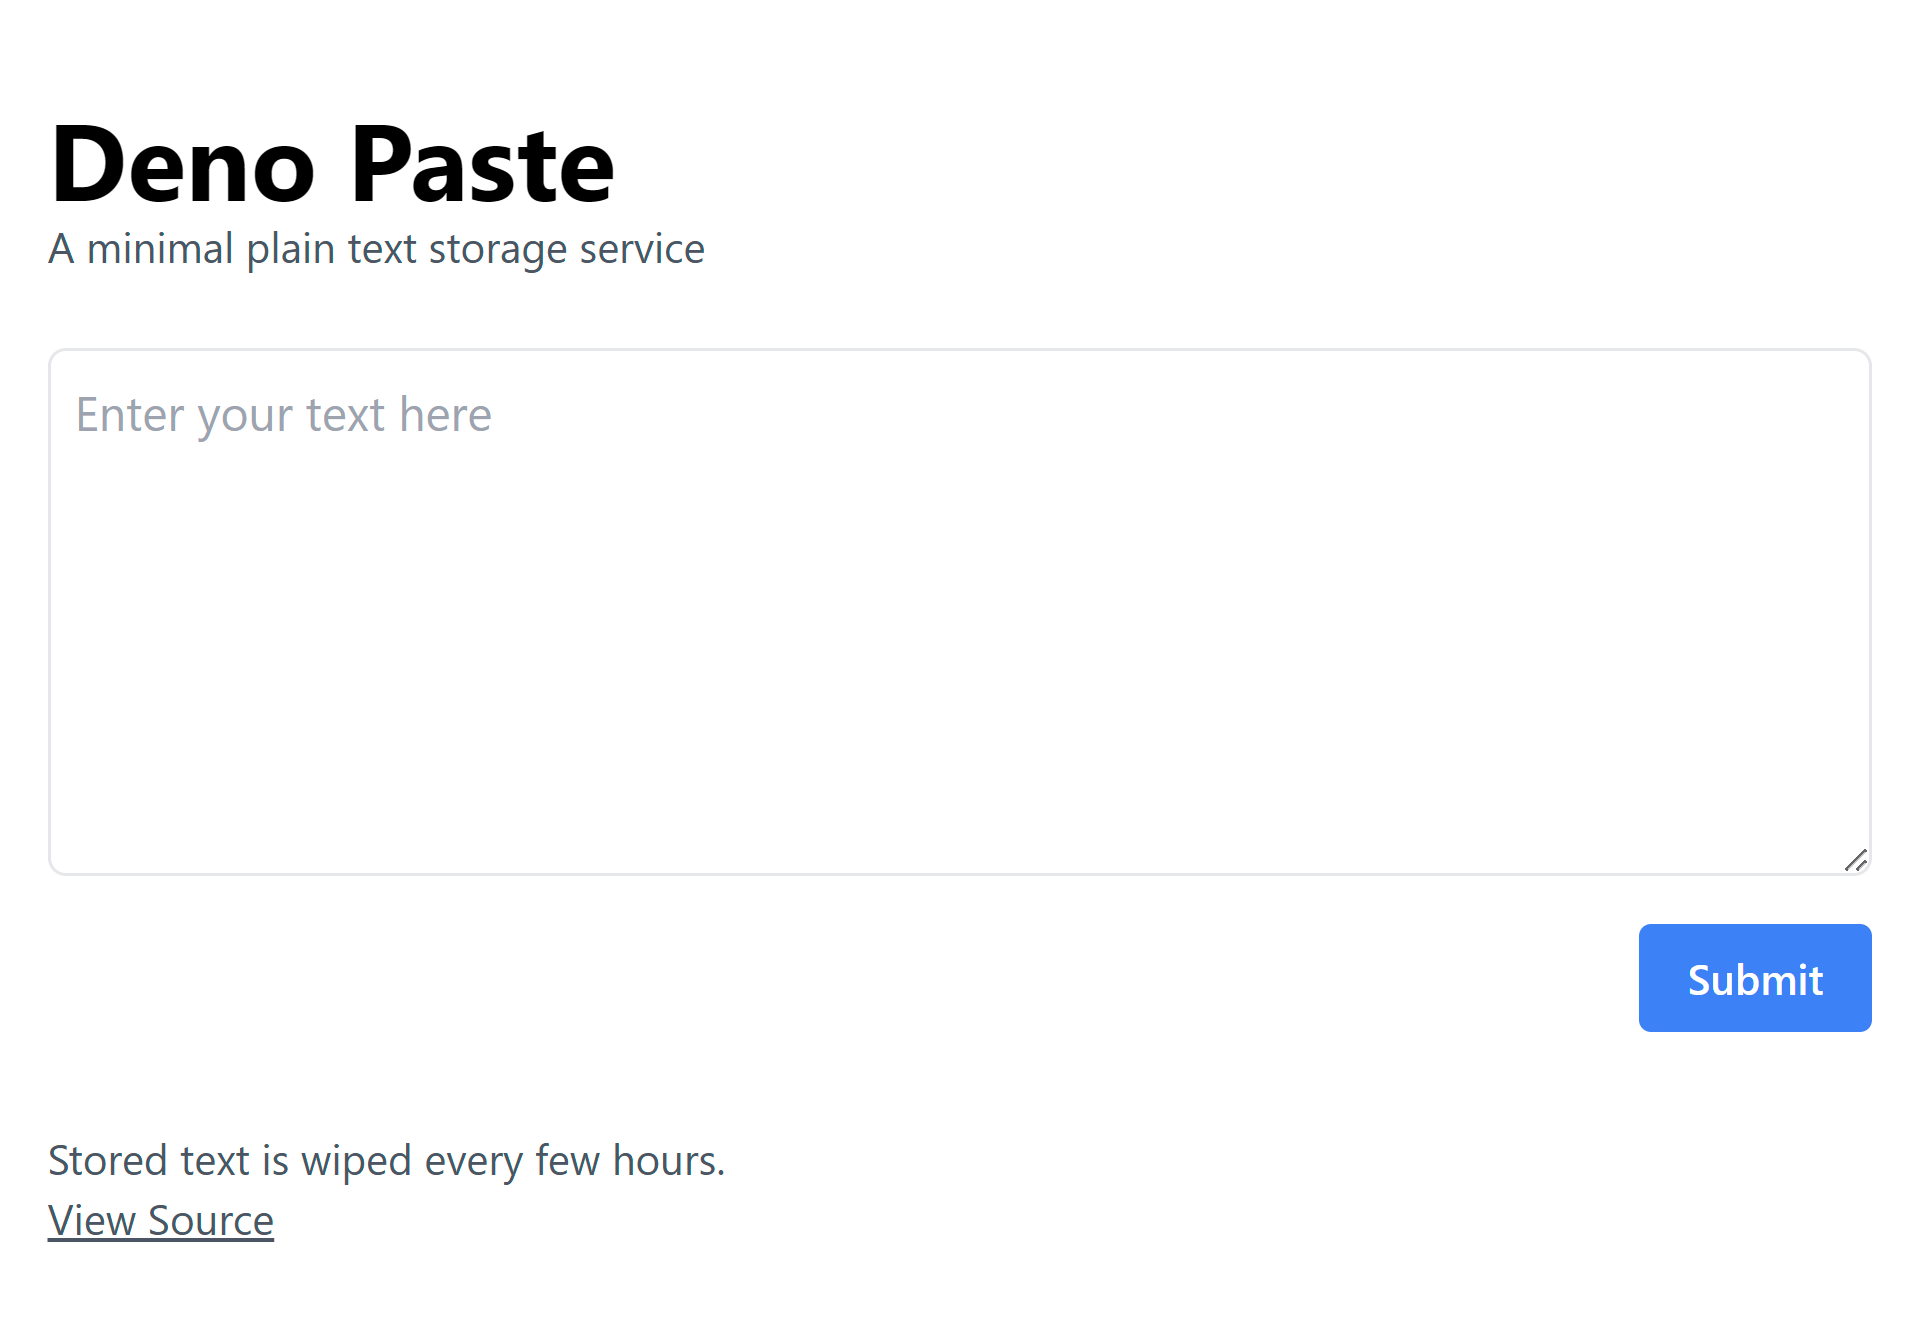
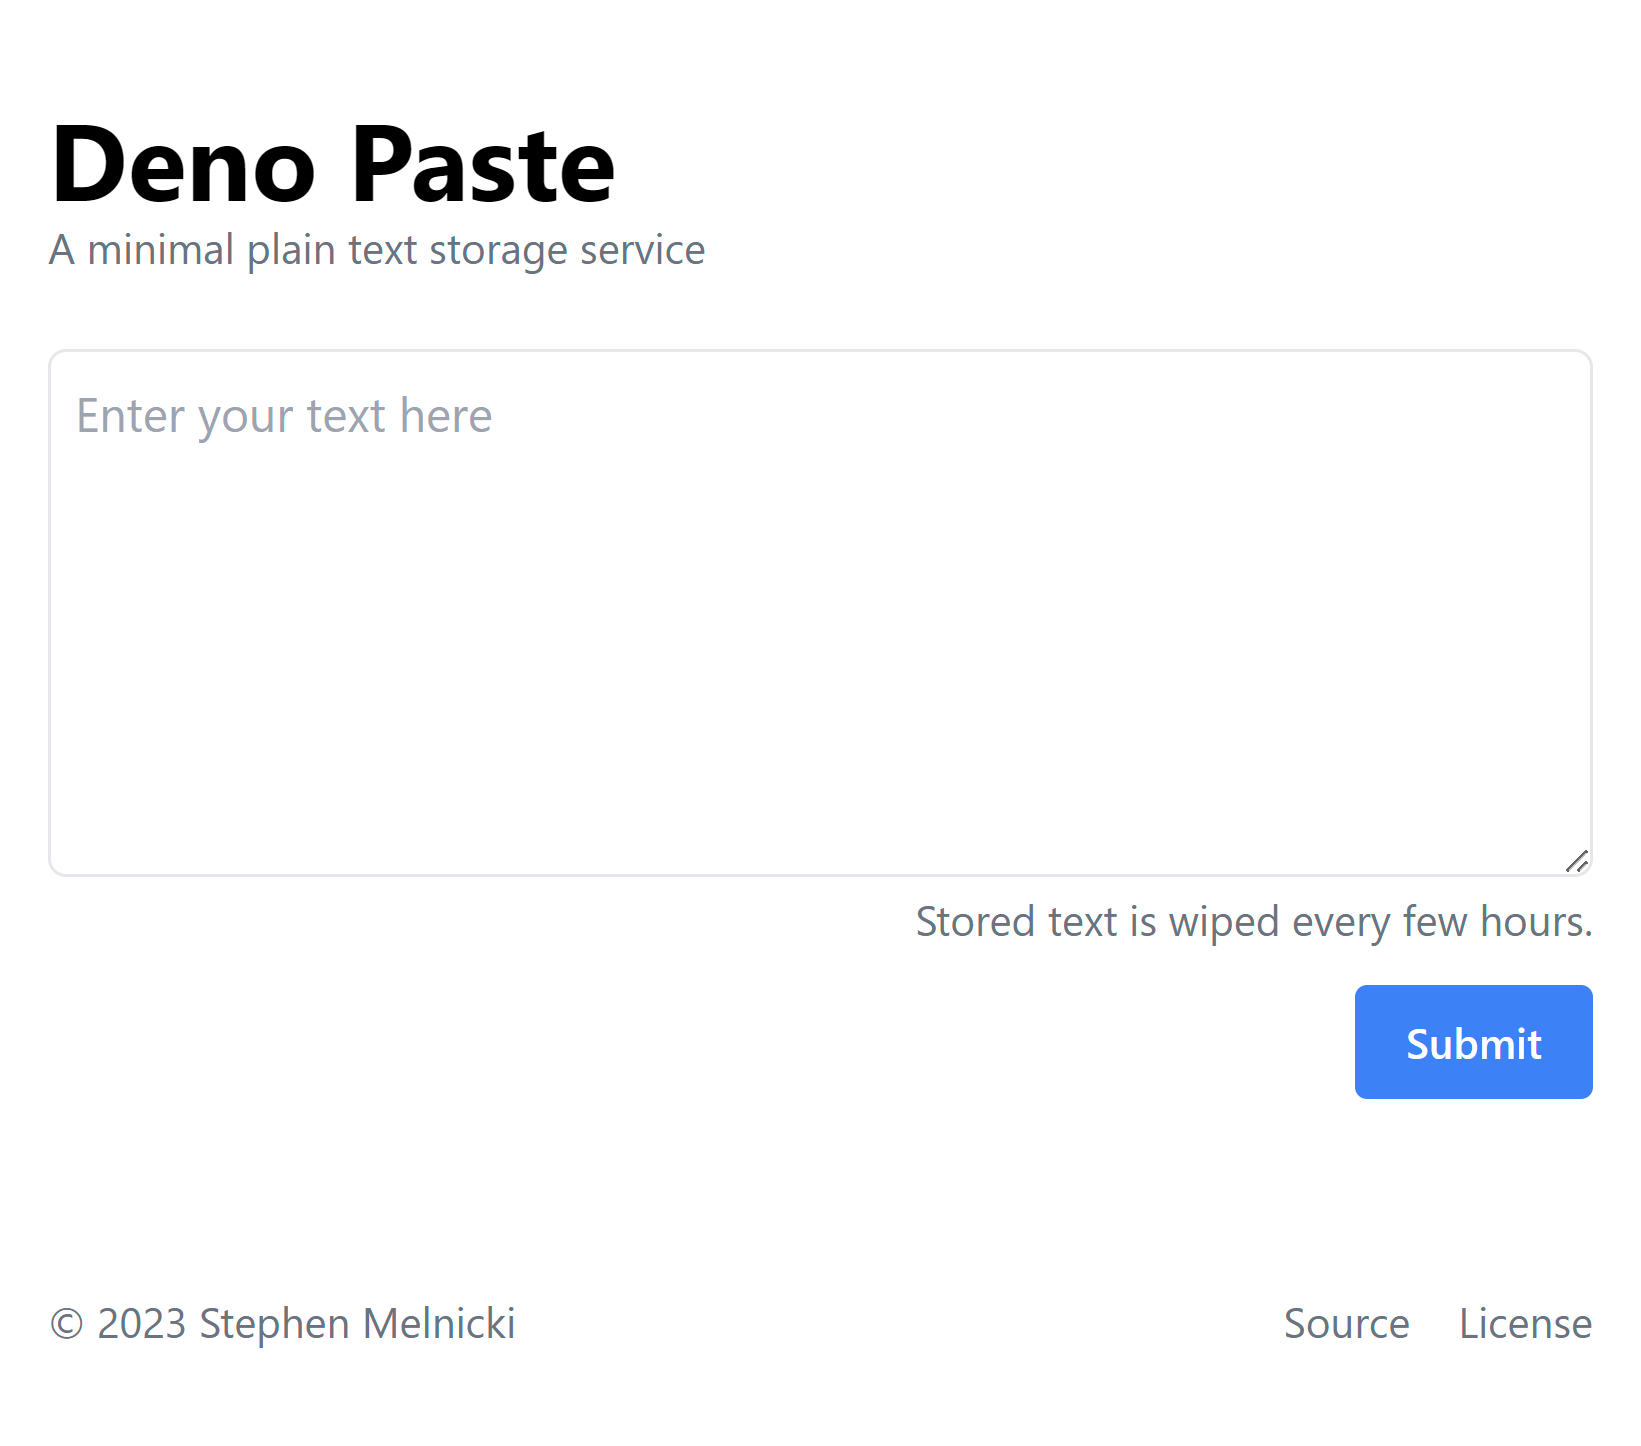
updating footer and screenshot

diff --git a/components/Footer.tsx b/components/Footer.tsx
@@ -1,17 +1,27 @@
 export default function Footer() {
   return (
-    <footer class="mt-8 text-sm text-gray-600">
-      <p>
-        Stored text is wiped every few hours.
-      </p>
-      <a
-        class="underline"
-        href="https://github.com/stephenmelnicki/deno_paste"
-        rel="noopener noreferrer"
-        target="_blank"
-      >
-        View Source
-      </a>
+    <footer class="flex justify-between mt-14 text-sm text-gray-600">
+      <span>
+        © 2023 Stephen Melnicki
+      </span>
+      <div class="flex justify-end gap-4">
+        <a
+          class="hover:underline"
+          href="https://github.com/stephenmelnicki/deno_paste"
+          rel="noopener noreferrer"
+          target="_blank"
+        >
+          Source
+        </a>
+        <a
+          class="hover:underline"
+          href="https://raw.githubusercontent.com/stephenmelnicki/deno_paste/main/LICENSE"
+          rel="noopener noreferrer"
+          target="_blank"
+        >
+          License
+        </a>
+      </div>
     </footer>
   );
 }

diff --git a/islands/UploadForm.tsx b/islands/UploadForm.tsx
@@ -51,7 +51,7 @@ export default function UploadForm() {
         id="upload-textarea"
         name="upload-textarea"
         aria-label="upload textarea"
-        class="min-w-full h-44 p-2 border rounded-md"
+        class="min-w-full h-44 p-2 border rounded-md border-gray-200 hover:border-gray-400"
         type="text"
         placeholder="Enter your text here"
         maxLength={MAX_INPUT_LENGTH}
@@ -61,10 +61,13 @@ export default function UploadForm() {
         required
       >
       </textarea>
-      <div class="ml-auto mt-4">
+      <p class="py-1 text-right text-sm text-gray-600">
+        Stored text is wiped every few hours.
+      </p>
+      <div class="ml-auto my-4">
         <button
           type="submit"
-          class="px-4 py-2 text-sm text-white font-semibold bg-blue-500 rounded"
+          class="px-4 py-2 text-sm border rounded border-blue-500 font-semibold text-white bg-blue-500 hover:bg-white hover:text-blue-500"
           disabled={inProgress.value}
         >
           Submit

diff --git a/components/Header.tsx b/components/Header.tsx
@@ -1,7 +1,7 @@
 export default function Header() {
   return (
     <header>
-      <a href="/">
+      <a class="inline-block" href="/">
         <h1 class="font-bold text-4xl">Deno Paste</h1>
       </a>
       <p class="text-sm text-gray-600">A minimal plain text storage service</p>

diff --git a/README.md b/README.md
@@ -7,7 +7,6 @@ A minimal plain text storage service built with Deno and Fresh.
 ## Features
 
 - Global persistent data using Deno KV
-- Sends updates from server to clients using EventSource (server-sent events)
 
 This project is hosted on Deno Deploy:
 
